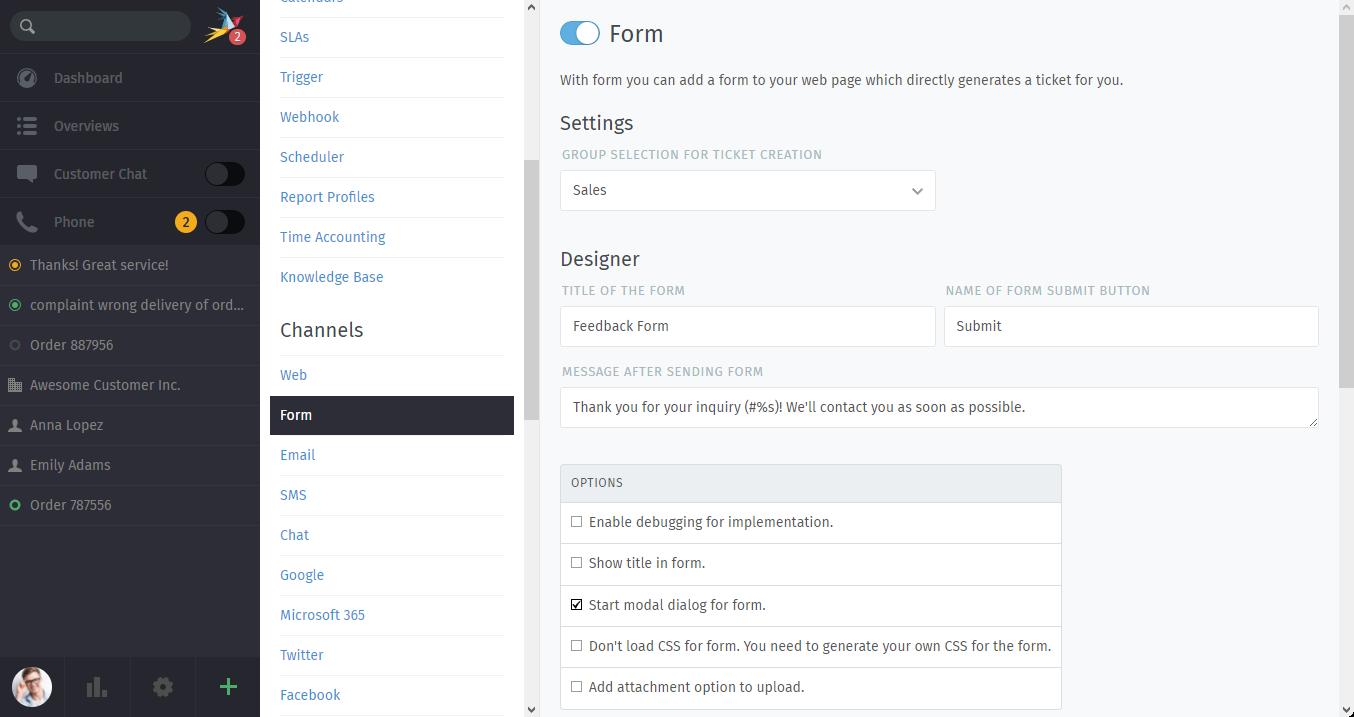
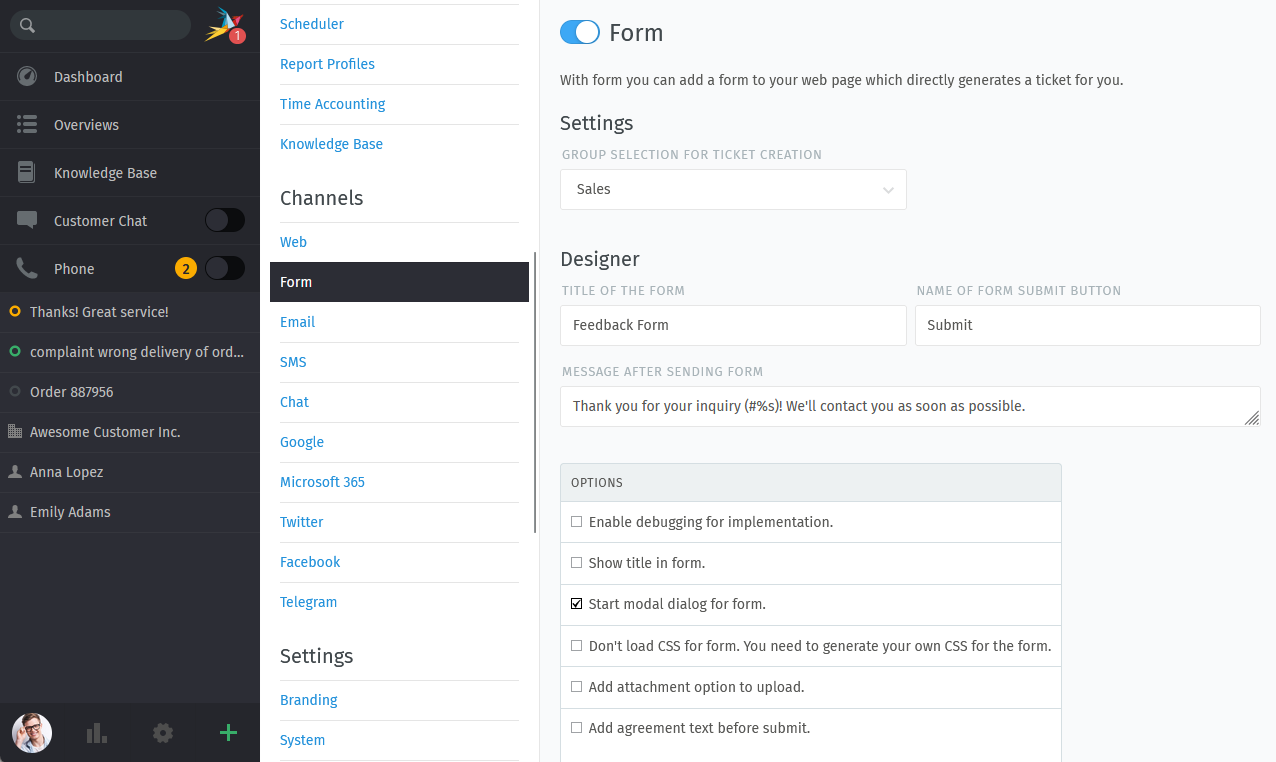
Rework form channel

diff --git a/channels/form.rst b/channels/form.rst
@@ -1,47 +1,219 @@
 Forms
 *****
 
-.. hint::
-
-   At the moment it is not possible to add more (or custom) fields to a
-   Zammad Form.
-
-.. note:: The form is currently limited to one form per instance.
-
 Feedback or contact forms are quite often used on websites.
 Usually they will generate an email which will be sent to somebody who forwards
 it and so on. With Zammad it’s quite easy to integrate these forms into your
 website and directly generate tickets with them. In just 2 minutes.
 
-Go to "Admin -> Channels -> Form" and enable the switch for this feature.
-Below you can adapt your form settings.
-
 .. figure:: /images/channels/form/form-channel-management.png
-   :alt: adapt your form settings
+   :alt: Zammad form management page
 
-In preview mode you can test if the form fits your needs
-(e. g. if it opens as modal dialog or if it's shown inline on the website).
+Limitations
+-----------
+
+Please note the following limitations:
+
+   * The fields provided by the form are limitted. You cannot add additional
+     fields than the following:
+
+     * Name
+     * Email
+     * Message
+     * Attachment upload (optional)
+     * Checkbox for custom agreement text (optional)
+
+   * As of now only one dedicated form per instance is possible
+
+Settings
+--------
+
+Zammad comes with limited settings for forms.
+
+Active
+   By default the form channel is *inactive*.
+   Use the switch in front of "Form" to activate this channel.
+
+   .. note::
+
+      Forms will not be displayed on your website if the channel is not active.
+      This does not affect the form preview on the channels setting page.
+
+Group selection for ticket creation
+   The group you set here defines where tickets should be created if they're
+   supplied by Zammads web form.
+
+Designer
+--------
+
+This section helps you to configure your form in the channels scope.
+If you're happy with what you've chosen you're provided with the code you
+need to copy to your website.
+
+   .. warning::
+
+      The designers changes *are not* stored anywhere in Zammad.
+      This means that the provided source code needs to be copied every time
+      you change settings here.
+
+.. figure:: /images/channels/form/form-channel-designer.png
+   :alt: Zammads form designer supports you with the initial configuration
+         of your form.
+   :width: 90%
+
+So let's talk about the options the designer provides.
+
+:Title of the form:
+   Choose how the heading of the form should be called.
+   This setting is only relevant if you choose to display the form title in the
+   form.
+
+   Default: ``Feedback Form``
+
+:Name of form submit button:
+   If Zammads default display name of the submit button does not fit, you can
+   provide your own wording with this option. It's being used every time the
+   form is being called.
+
+:Message after sending form:
+   After your user pressed the submit button, the user will be provided with
+   a message containing the ticket number of the just created ticket.
+   
+   Default *after* sending a form will look like so:
+
+   .. code-block:: text
+
+      Thank you for your inquiry (#31015)!
+      We'll contact you as soon as possible.
+
+:Options:
+   Zammad provides the following additional configuration options for your form.
+
+   Enable debugging for Implementation
+      This option activates detailed debug information in your browsers
+      developer tools console.
+
+      .. warning:: This option *should not* be active on productive forms!
+
+   Show title in form
+      This setting belongs to the setting ``Title of the form`` and will
+      provide the form title within the form dialogue if selected.
+
+   Start modal dialog for form
+      If selected the form will be opened in a modal by clicking a button.
+      Not selecting this option allows you to natively integrate the form within
+      your website's body.
+
+      This option is set by default.
+
+      .. note::
+
+         No matter what you select here, the form *is always* loaded completely
+         if your user browses the page the form lies on.
+
+   Don't load CSS for the form You need to generate your own CSS for the form.
+      By default Zammads form comes with basic CSS. This may not fit your
+      websites design or even interfere with it.
+
+      Selecting this option allows you to freely design the form without having
+      to overwrite existing directives.
+
+   Add attachment option to upload
+      Allows your user to upload **one attachment** to the form.
+      
+      .. note:: **🤓 Watch allowed attachment sizes here**
+
+         This function *is not* limited technically. The only limitation that
+         applies is your web servers upload limit.
+
+         .. hint:: **SaaS only**
+
+            If you're with Zammad hosted, attachments are limited by the
+            package you've chosen.
+
+   Add agreement text before submit
+      If enabled will allow you define a text that the form will display
+      together with a to tick box. This allows you to make your form conform
+      to local laws, e.g. by providing data privacy notes that the user has
+      to accept before submitting the form.
+
+      .. figure:: /images/channels/form/form-channel_acceptance-setting.gif
+         :alt: Screencast showing a sample on how to configure the agreement
+               text setting
+
+         Zammad provides a free text form with limited capabilities.
+         Use the *🔗 Weblink* button to add links to marked text passages.
+
+         This allows you to link to your e.g. data privacy or ToS information.
+
+Preview
+~~~~~~~
+
+Below the form options, Zammad provides a preview section to visualize the
+settings you've just chosen. By default you'll see a button named *Feedback*.
+
+Clicking on the button will open the form modal.
+
+   .. hint::
+
+      If the form channel is set to active, you already are able to create
+      tickets even from this preview mode.
 
 .. figure:: /images/channels/form/form-channel-preview-your-configuration.png
-   :alt: test it in preview mode
+   :alt: Screenshot showing the preview section for the just configured form
+   :width: 85%
 
-Just copy the JavaScript snippet and paste it into your website.
-That's all. Just 2 minutes.
+Requirements
+------------
 
-.. figure:: /images/channels/form/form-channel-requirements.png
-   :alt: copy the JavaScript snippet and paste it into your website - done
+The requirement section provides you with everything you need in order to
+apply Zammads web form to your website. It basically consists of two parts.
 
-Finally, the forms can look as follows:
+:Header section:
+   The first code block provides you with Zammads current jQuery dependency.
+   This script section usually belongs to your websites header section.
+
+   .. note::
+
+      The channel form suggests the following script tag which loads the
+      javascript libary required **from an external site**. This may not
+      suite your local requirements. You can use locally hosted jQuery version,
+      **however** the version is fixed.
+
+      ``<script src="https://code.jquery.com/jquery-3.6.0.min.js"></script>``
+
+      .. warning::
+
+         Do not mix jQuery versions - it's likely to break something.
+
+:Body section:
+   The second code block is the actual code required for your form to run.
+
+   The first line containing ``id="zammad-feedback-form"`` highly depends on
+   above selected settings. This part belongs into the place you actually
+   want the form or form button to appear.
+
+   The rest can either be placed at the same level or somewhere else on the
+   same page.
+
+   .. hint::
+
+      This code block is updated automatically when changing settings in the
+      designer above.
+
+   .. note::
+
+      Above statement *highly* depends on your website.
+      As you're responsible for your own website, you're on your own
+      figuring out where exactly to place what.
+
+Take the Zammad website as an example, the embedded form version can look
+like the following if you apply custom CSS to it.
 
 .. figure:: /images/channels/form/form-channel-live-result-without-button.png
-   :alt: example form as modal dialog
-
-**Requirements**
-
-Zammad form requires jQuery.
-If you don't already use it on your website include it like this:
-
-``<script src="https://code.jquery.com/jquery-3.6.0.min.js"></script>``
+   :alt: Screenshot showing the zammad.com website with embedded web form
+   :scale: 90%
+   :align: center
 
 Potential Spam-Issue
 --------------------
@@ -94,7 +266,7 @@ different criteria. It also ensure that the email address being used is valid
 
 
 Further options to make it harder
-^^^^^^^^^^^^^^^^^^^^^^^^^^^^^^^^^
+~~~~~~~~~~~~~~~~~~~~~~~~~~~~~~~~~
 
 Another way to make it harder for bots to automate against your Zammad instance
 is to change the location of ``form.js``
